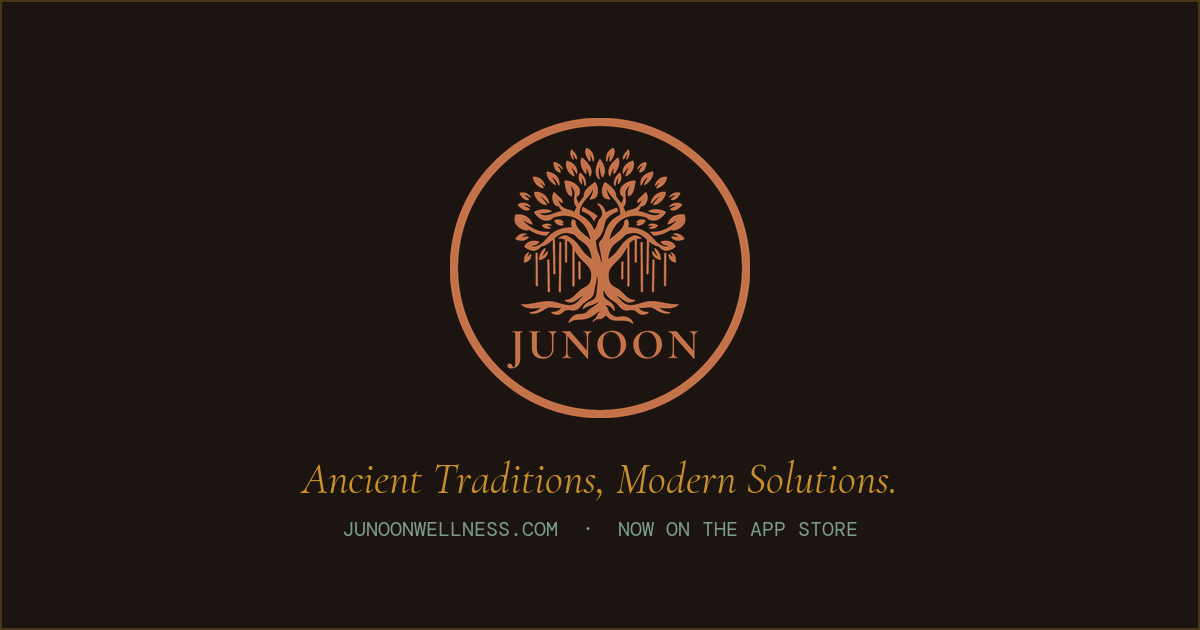
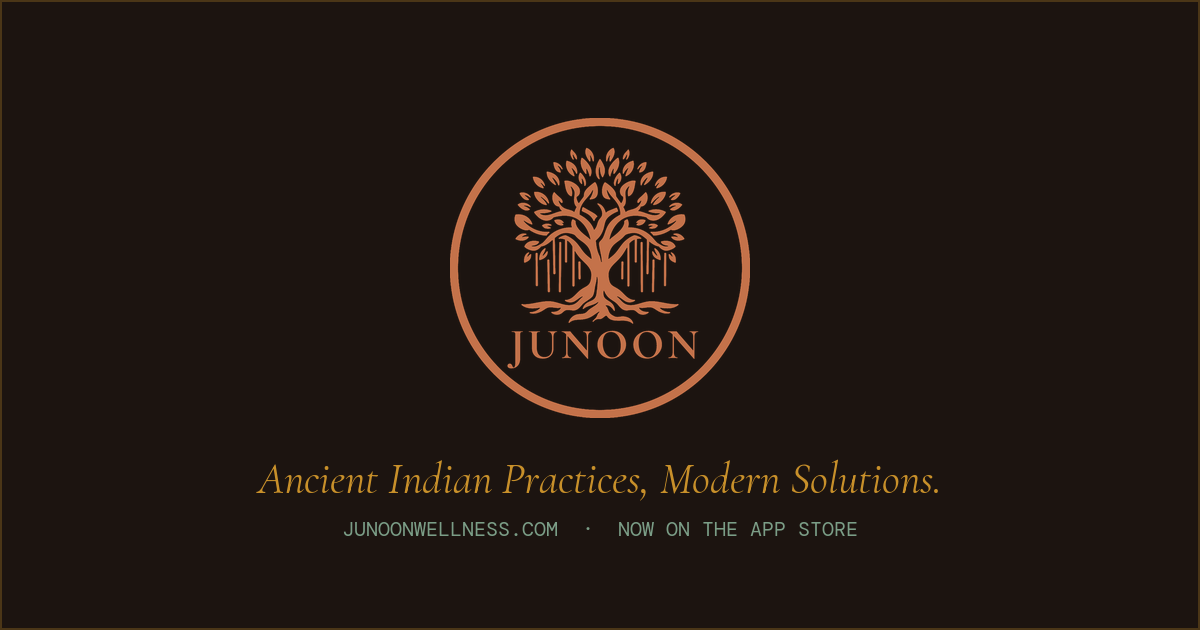
Brand line: "Ancient Indian Practices, Modern Solutions." (was "Ancient Traditions, Modern Solutions.")
- app/about/page.tsx: TAGLINE constant and the tagline band's aria-label.
- app/layout.tsx: OG image alt text.
- public/og-image.png: regenerated with LV5-029's original PIL generator
  (recovered from the 2026-08-23 session) and the 50a64d6 TTF fonts + logo.
  The generator reproduces the old PNG pixel-for-pixel with the old text;
  with the new text the only changed pixels are the tagline rows
  (y 459-500). Same 44px Cormorant Italic, side margins 258px (was 302px).

Prepared on a branch only, not deployed.

Claude-Session: https://claude.ai/code/session_01Agf4uffdPwi1PnAj5zr1MZ

Changed region(s): [[0.2158, 0.7238, 0.8017, 0.7841]]

diff --git a/app/about/page.tsx b/app/about/page.tsx
@@ -74,7 +74,7 @@ const STORY_PARAGRAPHS = [
 const SUBLINE =
   'Yoga, breathwork and meditation, rooted in ancient India, built for modern life.'
 
-const TAGLINE = 'Ancient Traditions, Modern Solutions.'
+const TAGLINE = 'Ancient Indian Practices, Modern Solutions.'
 const SIGNATURE = 'Arjav, Founder and CEO'
 
 interface Person {
@@ -327,7 +327,7 @@ export default function AboutPage() {
 
       {/* Kush, 2026-08-24: "put the ancient traditions banner below the
           video" — a full-width band directly under the cinematic slot. */}
-      <section className="ab-tagline-band" aria-label="Ancient Traditions, Modern Solutions">
+      <section className="ab-tagline-band" aria-label="Ancient Indian Practices, Modern Solutions">
         <Reveal y={18} duration={0.9} amount={0.3}>
           <div className="ab-tagline-panel">
             <div className="ab-tagline-text">{TAGLINE}</div>

diff --git a/app/layout.tsx b/app/layout.tsx
@@ -72,7 +72,7 @@ export const metadata: Metadata = {
         url: "/og-image.png",
         width: 1200,
         height: 630,
-        alt: "Junoon - Ancient Traditions, Modern Solutions.",
+        alt: "Junoon - Ancient Indian Practices, Modern Solutions.",
       },
     ],
   },
